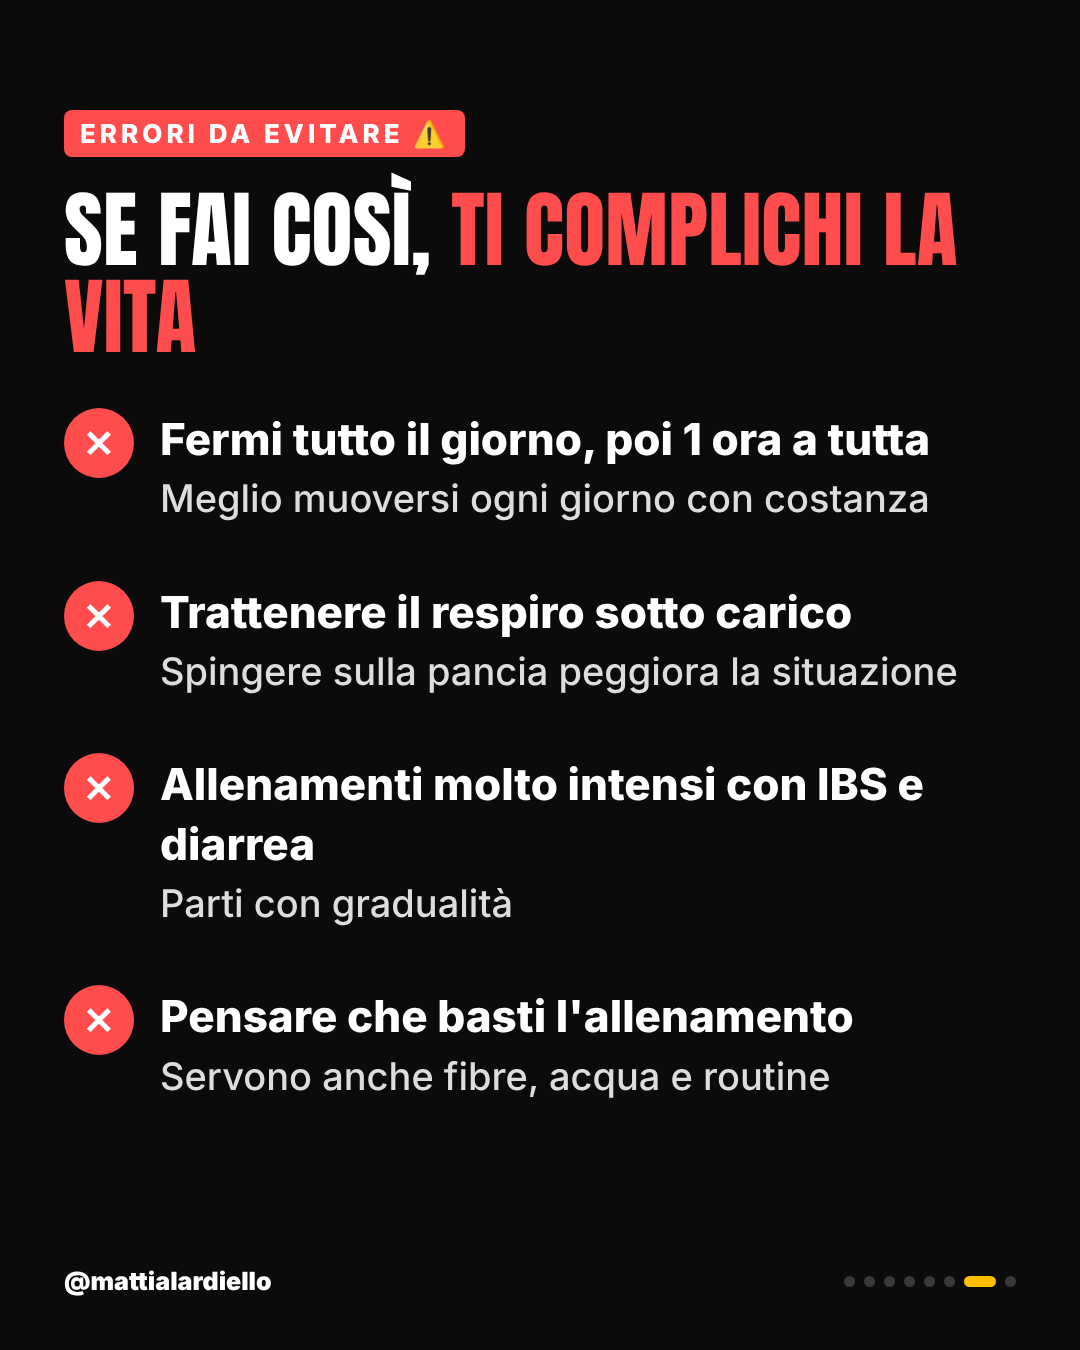
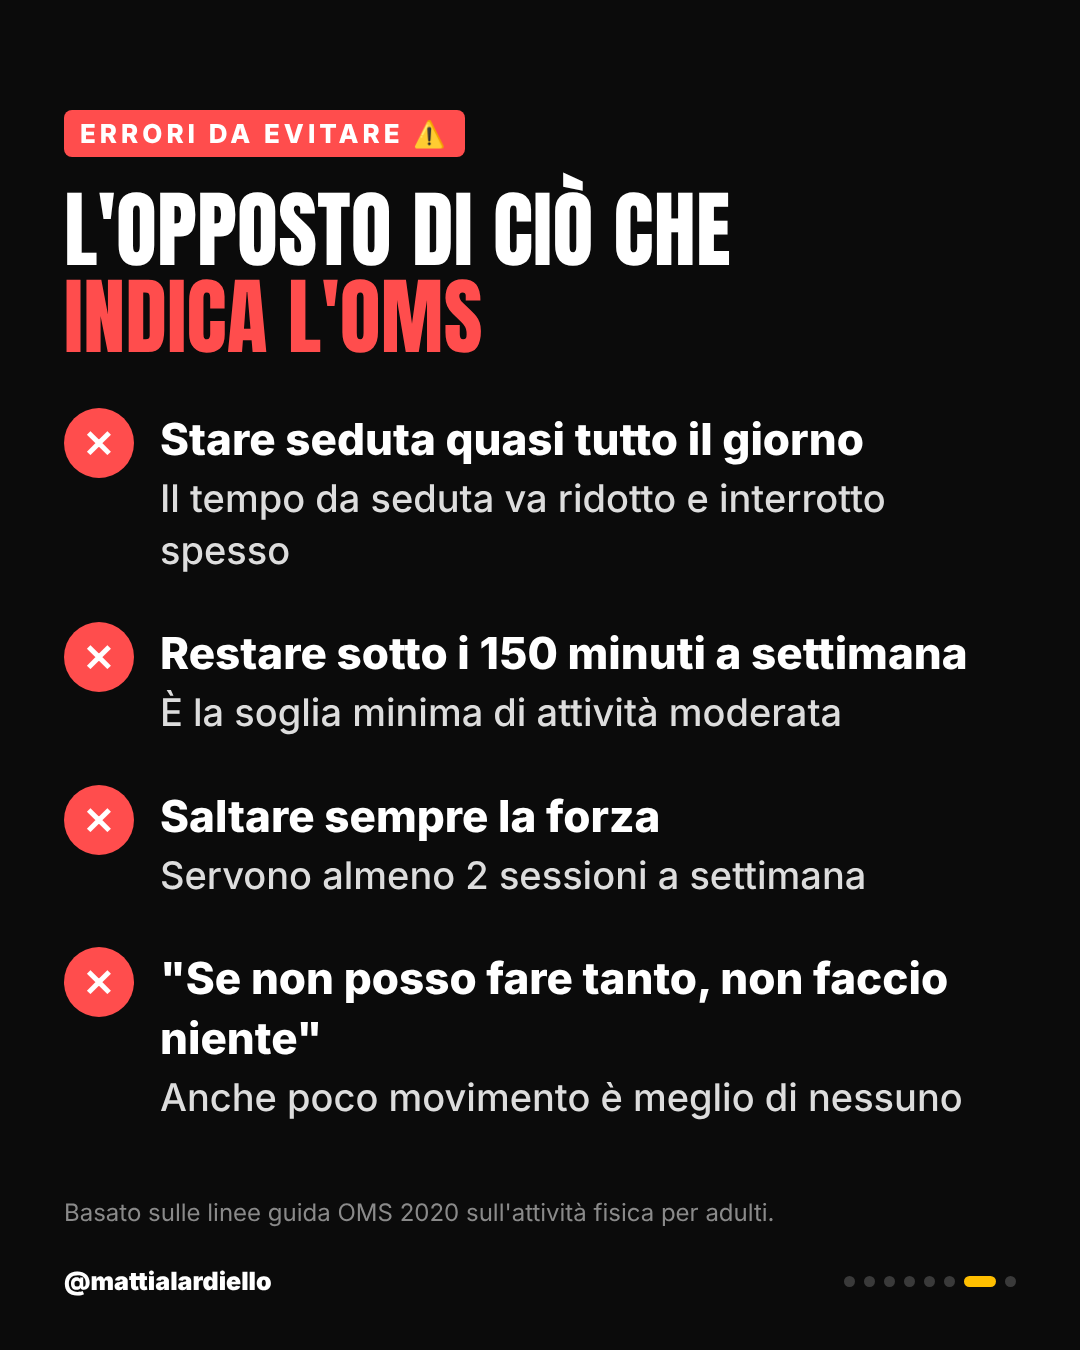
Intestino: errori da evitare basati sulle linee guida OMS
Claude-Session: https://claude.ai/code/session_014pNAwoV69TZpDWEUzr7pF6

diff --git a/contenuti-instagram/README.md b/contenuti-instagram/README.md
@@ -175,6 +175,6 @@ Nei DM / nel modulo indicare chiaramente che la consulenza è a pagamento, prima
 > Nel carosello trovi perché aiuta, cosa fare in pratica e gli errori da evitare 👉
 > Tu cosa fai già? Scrivimi nei commenti il numero dalla slide 6 👇
 > 🔖 Salvalo e mandalo a chi ha sempre la pancia gonfia.
-> _Contenuto divulgativo di un personal trainer. Fonte: Corsetti M. et al., Rome V – Bowel Disorders, Gastroenterology 2026; slide 6: linee guida OMS 2020 sull'attività fisica. Non sostituisce il parere del medico._
+> _Contenuto divulgativo di un personal trainer. Fonte: Corsetti M. et al., Rome V – Bowel Disorders, Gastroenterology 2026; slide 6 e 7: linee guida OMS 2020 sull'attività fisica. Non sostituisce il parere del medico._
 >
 > #panciagonfia #gonfiore #intestinopigro #stitichezza #colonirritabile #ibs #asseintestinocervello #benessereintestinale #allenamentofemminile #movimento #personaltrainerverona #mllab
